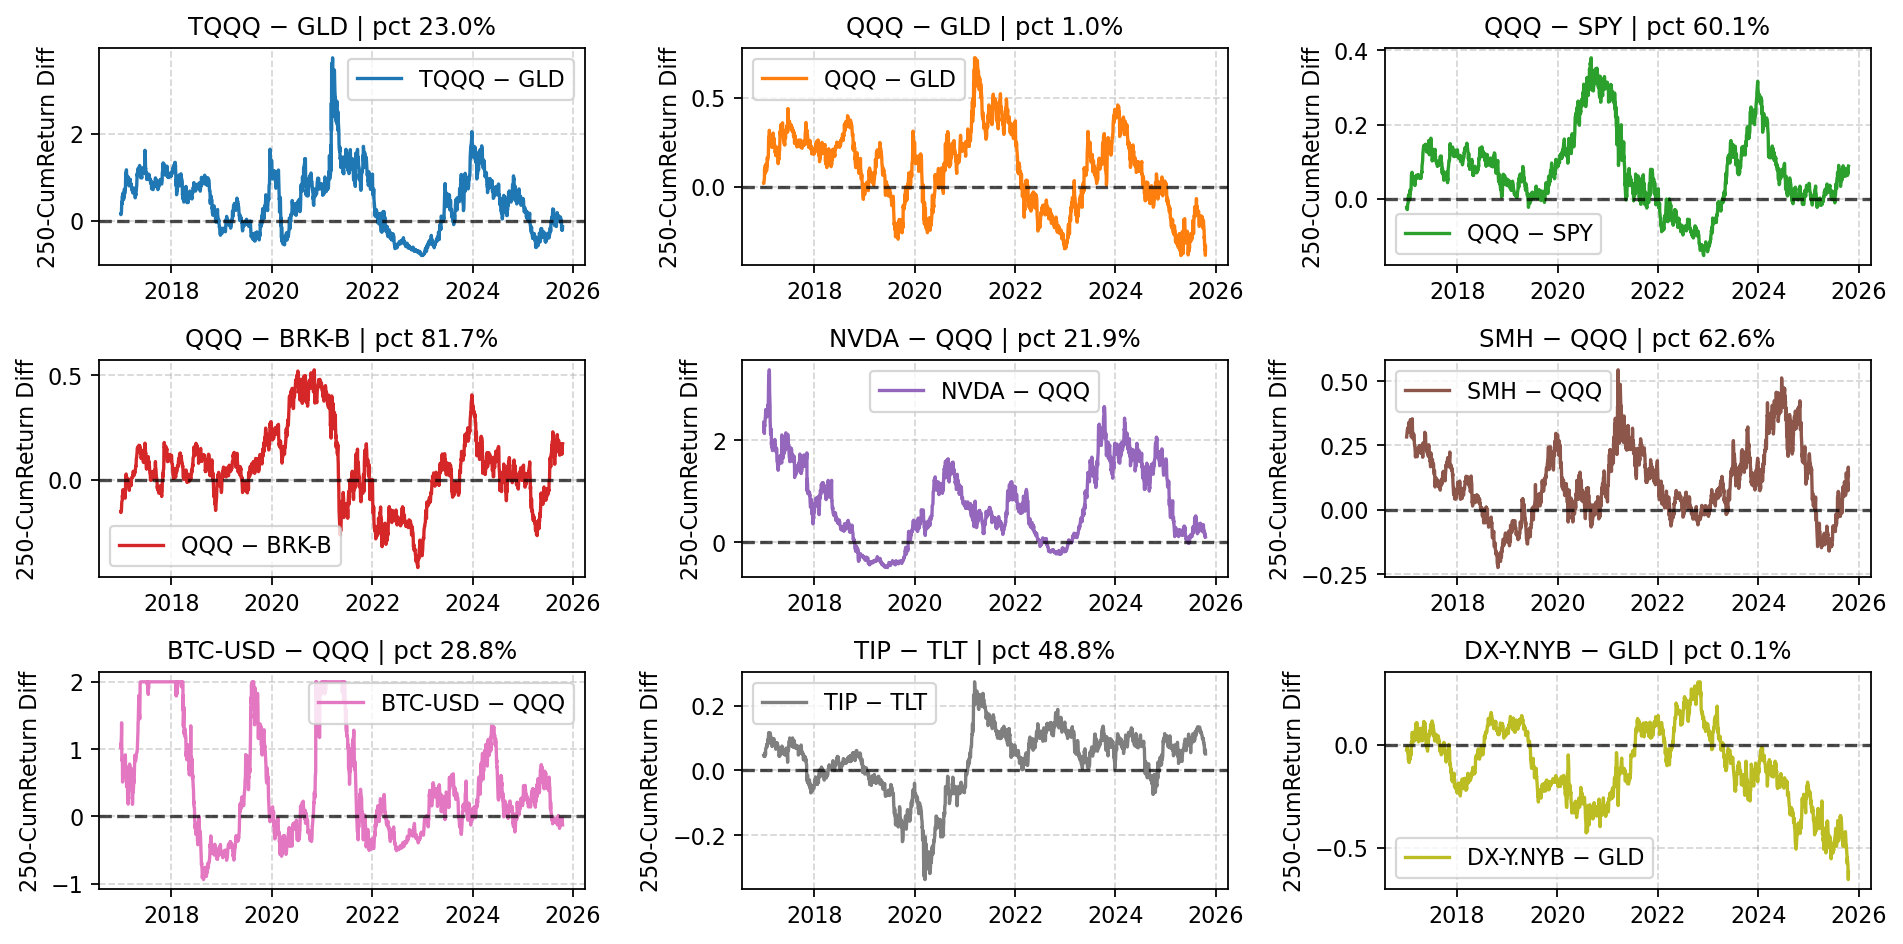
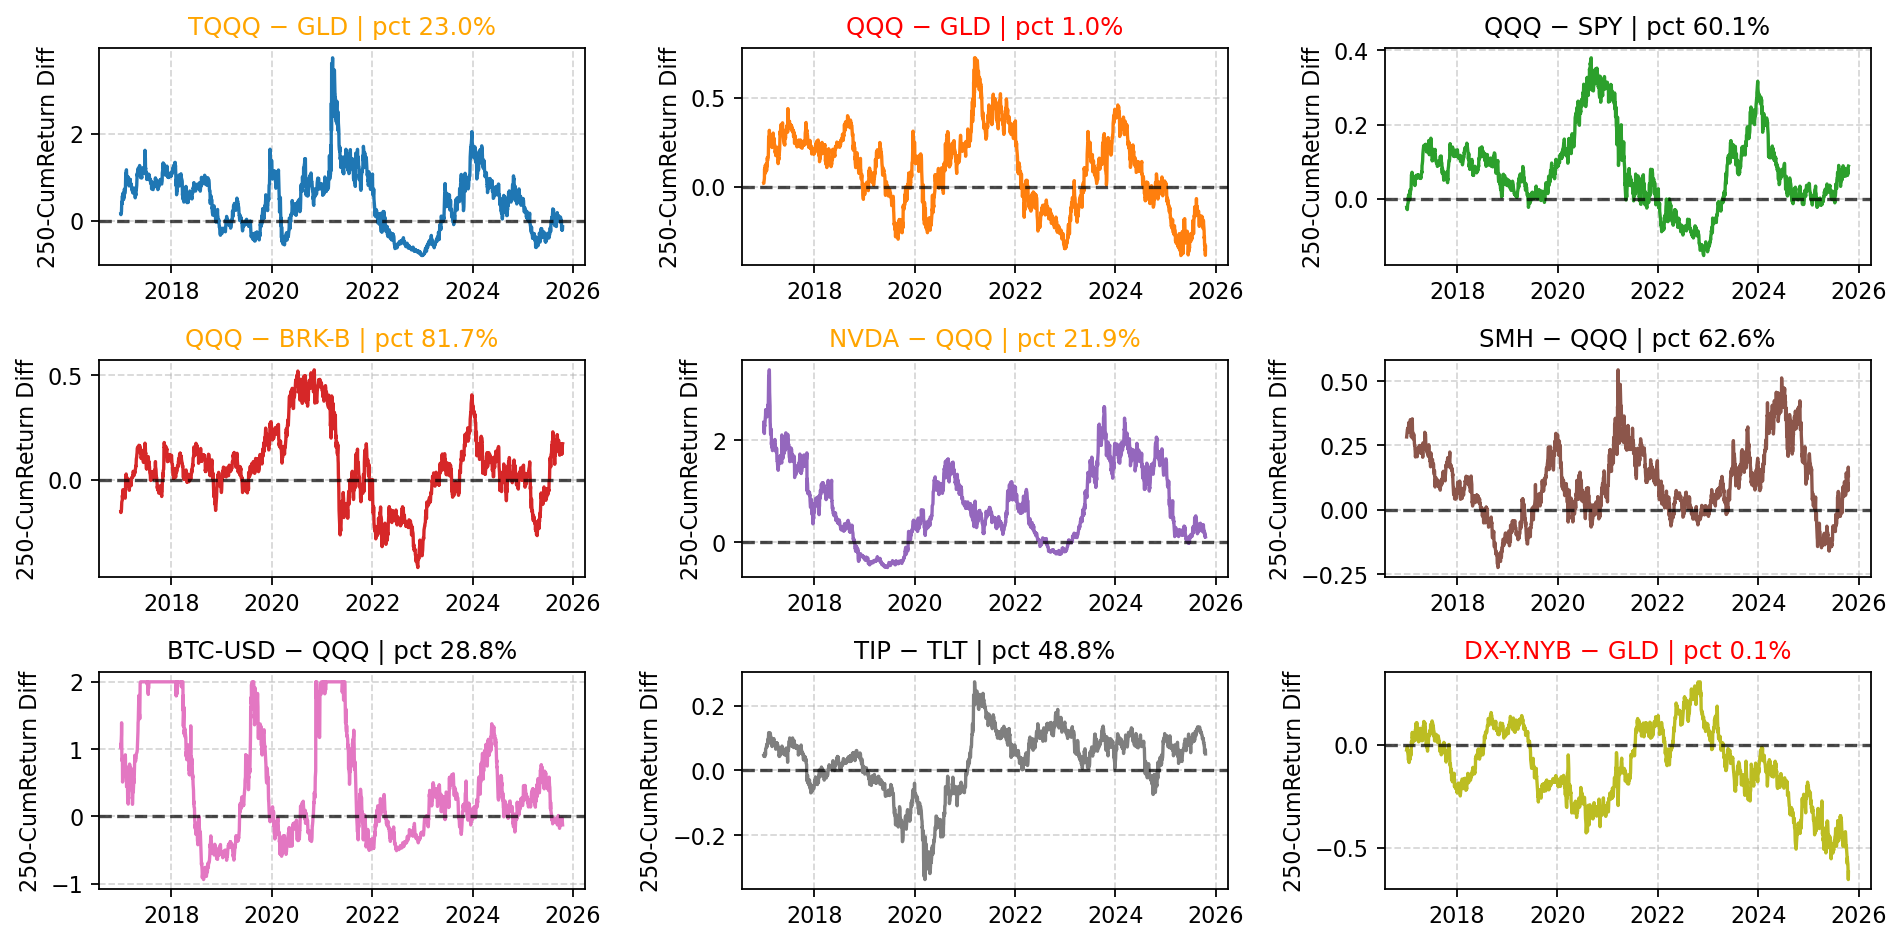
.

diff --git a/docs/index.html b/docs/index.html
@@ -12,7 +12,7 @@
 </head>
 <body>
   <h1>Rolling Pair Diffs (250-day)</h1>
-  <div class="meta">Last updated: 2025-10-25 16:26 UTC</div>
+  <div class="meta">Last updated: 2025-10-25 19:53 UTC</div>
   <p><img src="rolling_pairs.png" alt="rolling pairs figure"></p>
   <div class="note">
     Data via <code>yfinance</code>. Figure regenerates daily via GitHub Actions.

diff --git a/auto_macro_pair_monitor.py b/auto_macro_pair_monitor.py
@@ -106,6 +106,23 @@ def main():
         latest_diff = float(diff.iloc[-1])
         latest_pct = percentile_rank(diff.values, latest_diff)
 
+        # === quantile coloring logic ===
+        q10, q90 = np.nanquantile(diff, [0.1, 0.9])
+        ax.set_title(
+           f'{TARGET} − {BASE} | pct {latest_pct:.1f}%',
+            fontsize=11,
+            color='red' if (latest_diff < q10 or latest_diff > q90) else 'black'
+        )
+
+        q10, q25, q75, q90 = np.nanquantile(diff, [0.1, 0.25, 0.75, 0.9])
+        color = (
+            'red' if (latest_diff < q10 or latest_diff > q90)
+            else 'orange' if (q10 <= latest_diff < q25 or q75 < latest_diff <= q90)
+            else 'black'
+        )
+
+        ax.set_title(f'{TARGET} − {BASE} | pct {latest_pct:.1f}%', fontsize=11, color=color)
+
         # Plot
         ax.plot(df.index, diff.values, label=f'{TARGET} − {BASE}', color=f'C{idx % 10}')
         ax.axhline(0, color='black', linestyle='--', alpha=0.7)
@@ -116,7 +133,7 @@ def main():
             label.set_rotation(0) 
         ax.set_xlabel("")  
         ax.set_ylabel(f"{WINDOW}-CumReturn Diff")
-        ax.legend()
+        #ax.legend()
         ax.grid(True, linestyle='--', alpha=0.5)
 
     # Hide any extra subplots
